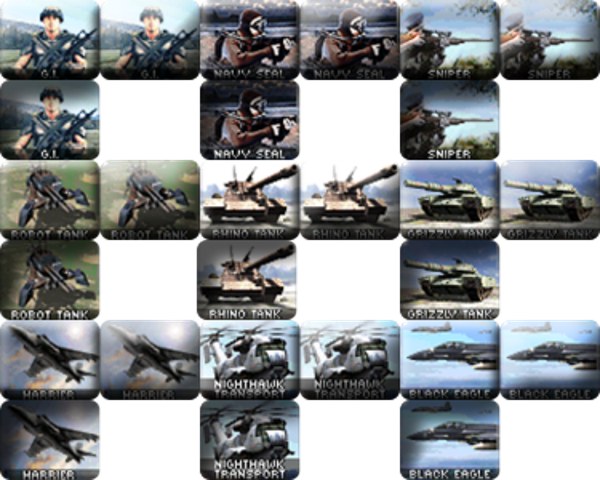
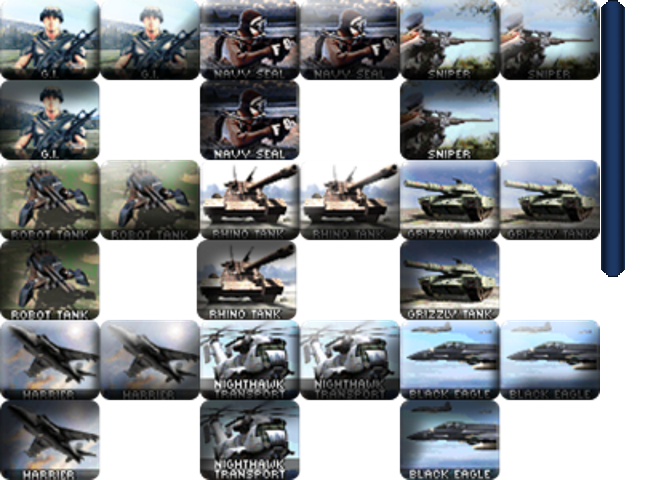
Created UIBar

diff --git a/Motor2D/TestingScene.cpp b/Motor2D/TestingScene.cpp
@@ -59,6 +59,9 @@ bool TestingScene::Start()
 	unit_button_two = App->gui->CreateButton({ 890, 365 }, test_summoner->GetCard(CardNumber::CN_SECOND)->button.anim);
 	unit_button_three = App->gui->CreateButton({ 790, 445 }, test_summoner->GetCard(CardNumber::CN_THIRD)->button.anim);
 	unit_button_four = App->gui->CreateButton({ 890, 445 }, test_summoner->GetCard(CardNumber::CN_FOURTH)->button.anim);
+
+	App->gui->CreateBar({ 0,0 }, { 601,0,24,277 });
+
 	return true;
 }
 
@@ -199,7 +202,7 @@ bool TestingScene::GUIEvent(UIElement * element, GUI_Event gui_event)
 		current_drag->dragable = true;
 	}
 	else if (gui_event == GUI_Event::LEFT_CLICK_UP) {
-		if (element == current_drag) {
+		/*if (element == current_drag) {
 			test_summoner->UseCard(CardNumber::CN_FIRST, { float(x),float(y) });
 			App->gui->DeleteElement(current_drag);
 			current_drag = nullptr;
@@ -218,7 +221,7 @@ bool TestingScene::GUIEvent(UIElement * element, GUI_Event gui_event)
 			test_summoner->UseCard(CardNumber::CN_FOURTH, { float(x),float(y) });
 			App->gui->DeleteElement(current_drag);
 			current_drag = nullptr;
-		}
+		}*/
 		
 	}
 

diff --git a/Motor2D/UIBar.cpp b/Motor2D/UIBar.cpp
@@ -1,0 +1,23 @@
+#include "j1App.h"
+#include "Render.h"
+#include "GUI.h"
+#include "UIBar.h"
+#include "Color.h"
+
+UIBar::UIBar(iPoint pos, SDL_Rect sprite_rect, bool is_interactable)
+{
+	interactable = is_interactable;
+	rect_box = { pos.x, pos.y, sprite_rect.w,sprite_rect.h };
+
+	rect_sprite = sprite_rect;
+}
+
+bool UIBar::UIBlit()
+{
+	iPoint screen_pos = GetScreenPos();
+	if (clipping && parent)
+		App->render->Blit(App->gui->GetAtlas(), screen_pos.x, screen_pos.y, &rect_sprite, 0.0F, 0.0, INT_MAX, INT_MAX, &parent->GetScreenRect());
+	else
+		App->render->Blit(App->gui->GetAtlas(), screen_pos.x, screen_pos.y, &rect_sprite, 0.0F, 0.0, INT_MAX, INT_MAX);
+	return true;
+}

diff --git a/Motor2D/GUI.h b/Motor2D/GUI.h
@@ -17,6 +17,7 @@ class UIButton;
 class UIScrollBar;
 class UIAnimatedImage;
 class UILabel;
+class UIBar;
 
 enum GUI_Event {
 	LEFT_CLICK_DOWN,
@@ -64,6 +65,7 @@ public:
 	UIButton* CreateButton(iPoint pos, SDL_Rect* sprite_rect, UIElement* parent = nullptr, bool is_interactable = true);
 	UIScrollBar* CreateScrollBar(iPoint pos, float min, float max, ScrollType type = VERTICAL, UIElement* parent = nullptr);
 	UIAnimatedImage* CreateAnimatedImage(iPoint pos, SDL_Rect * rect, int total_sprites, int speed, UIElement* parent = nullptr);
+	UIBar* CreateBar(iPoint pos, SDL_Rect rect, UIElement* parent = nullptr);
 
 	void DeleteElement(UIElement* element);
 

diff --git a/Motor2D/GUI.cpp b/Motor2D/GUI.cpp
@@ -14,6 +14,7 @@
 #include "UIButton.h"
 #include "UILabel.h"
 #include "UIScrollBar.h"
+#include "UIBar.h"
 #include "GUI.h"
 
 Gui::Gui() : Module()
@@ -209,6 +210,14 @@ UIAnimatedImage* Gui::CreateAnimatedImage(iPoint pos, SDL_Rect * rect, int total
 	image->parent = parent;
 	elements.push_back(image);
 	return image;
+}
+
+UIBar * Gui::CreateBar(iPoint pos, SDL_Rect rect, UIElement * parent)
+{
+	UIBar* bar = new UIBar(pos, rect, parent);
+	bar->parent = parent;
+	elements.push_back(bar);
+	return bar;
 }
 
 void Gui::DeleteElement(UIElement * element)

diff --git a/Motor2D/UIBar.h b/Motor2D/UIBar.h
@@ -1,0 +1,18 @@
+#ifndef UI_BAR_H
+#define UI_BAR_H
+
+#include "UIElement.h"
+
+class UIBar : public UIElement 
+{
+public:
+	UIBar(iPoint pos, SDL_Rect sprite_rect, bool is_interactable = true);
+	~UIBar();
+
+	bool UIBlit();
+
+	//bool CleanUp();
+
+};
+
+#endif // !UI_BAR_H
